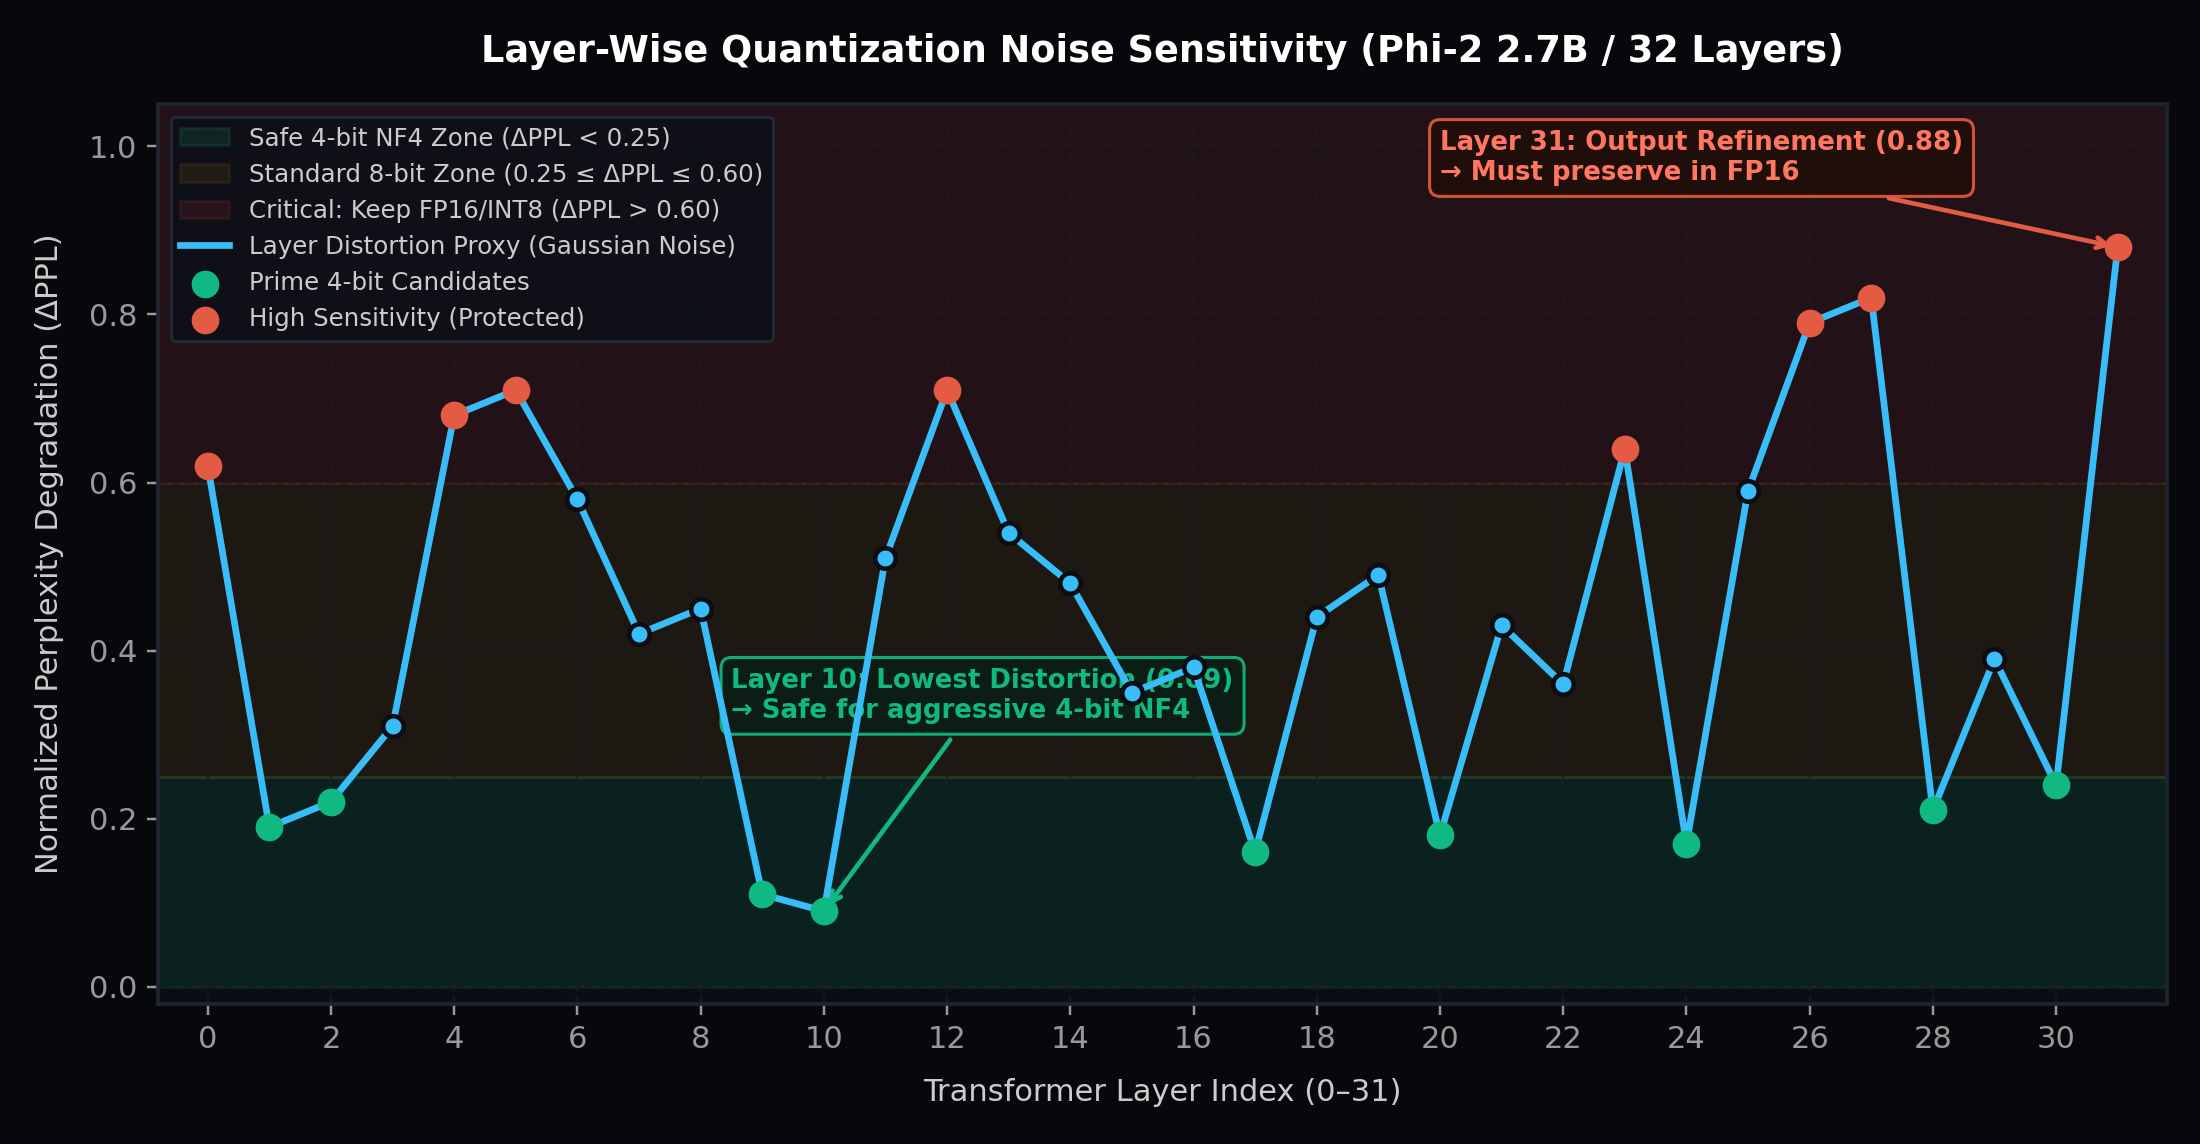
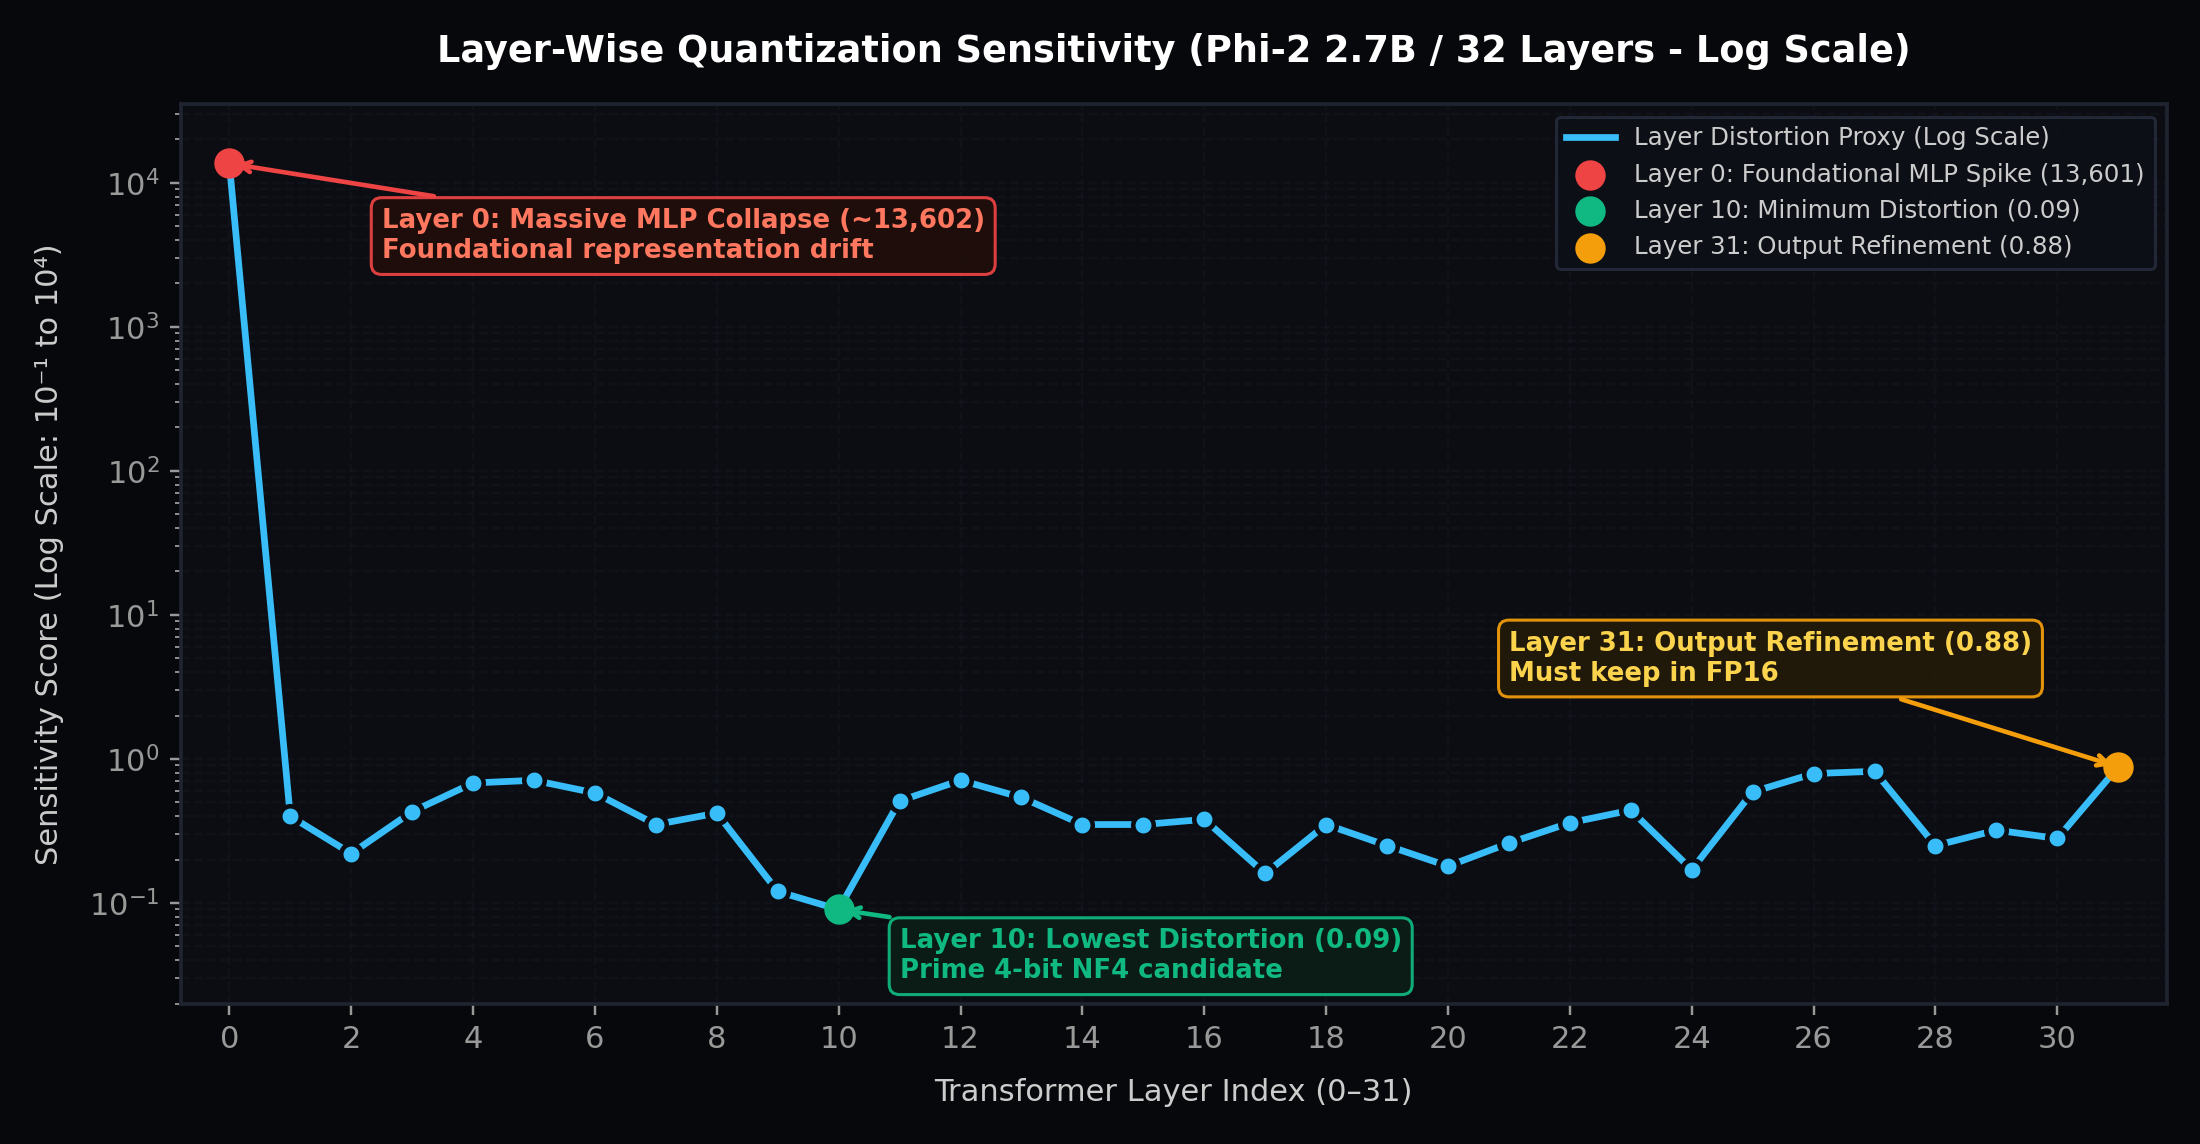
feat: align Fig 1 with exact log-scale noise analysis curve from research paper

diff --git a/src/data/portfolio.ts b/src/data/portfolio.ts
@@ -305,7 +305,7 @@ export const research = [
       "Non-monotonic sensitivity: Layer 23 is catastrophic (perplexity explodes to 3,579,120) and Layer 20 is extreme (140,746 PPL), while Layer 0 MLP is foundational (1,586 PPL if masked). In DistilBERT, quantizing Layer 5 to INT4 caused only a 0.12% accuracy drop (91.06% → 90.94%). Noise injection ranking confirms Layers 9, 10, 17, 24, 20, 2 are prime candidates for 4-bit NF4 (<0.22 normalized PPL increase), while Layers 31, 27, 26, 5, 12, 4 must remain in FP16/INT8.",
     code: "https://github.com/swaekaa/llm_quant_sense",
     images: [
-      { src: "/images/research/llm_quant_fp16.png", caption: "Fig 1. Layer wise noise sensitivity across Phi 2 layers" },
+      { src: "/images/research/llm_quant_fp16.png", caption: "Fig 1. Layer wise noise sensitivity across Phi 2 layers (Log Scale)" },
       { src: "/images/research/llm_quant_rank.png", caption: "Fig 2. Layer sensitivity score ranking and Pareto allocation" },
       { src: "/images/research/llm_quant_ppl.png", caption: "Fig 3. Perplexity and throughput trade off across bit widths" }
     ]
